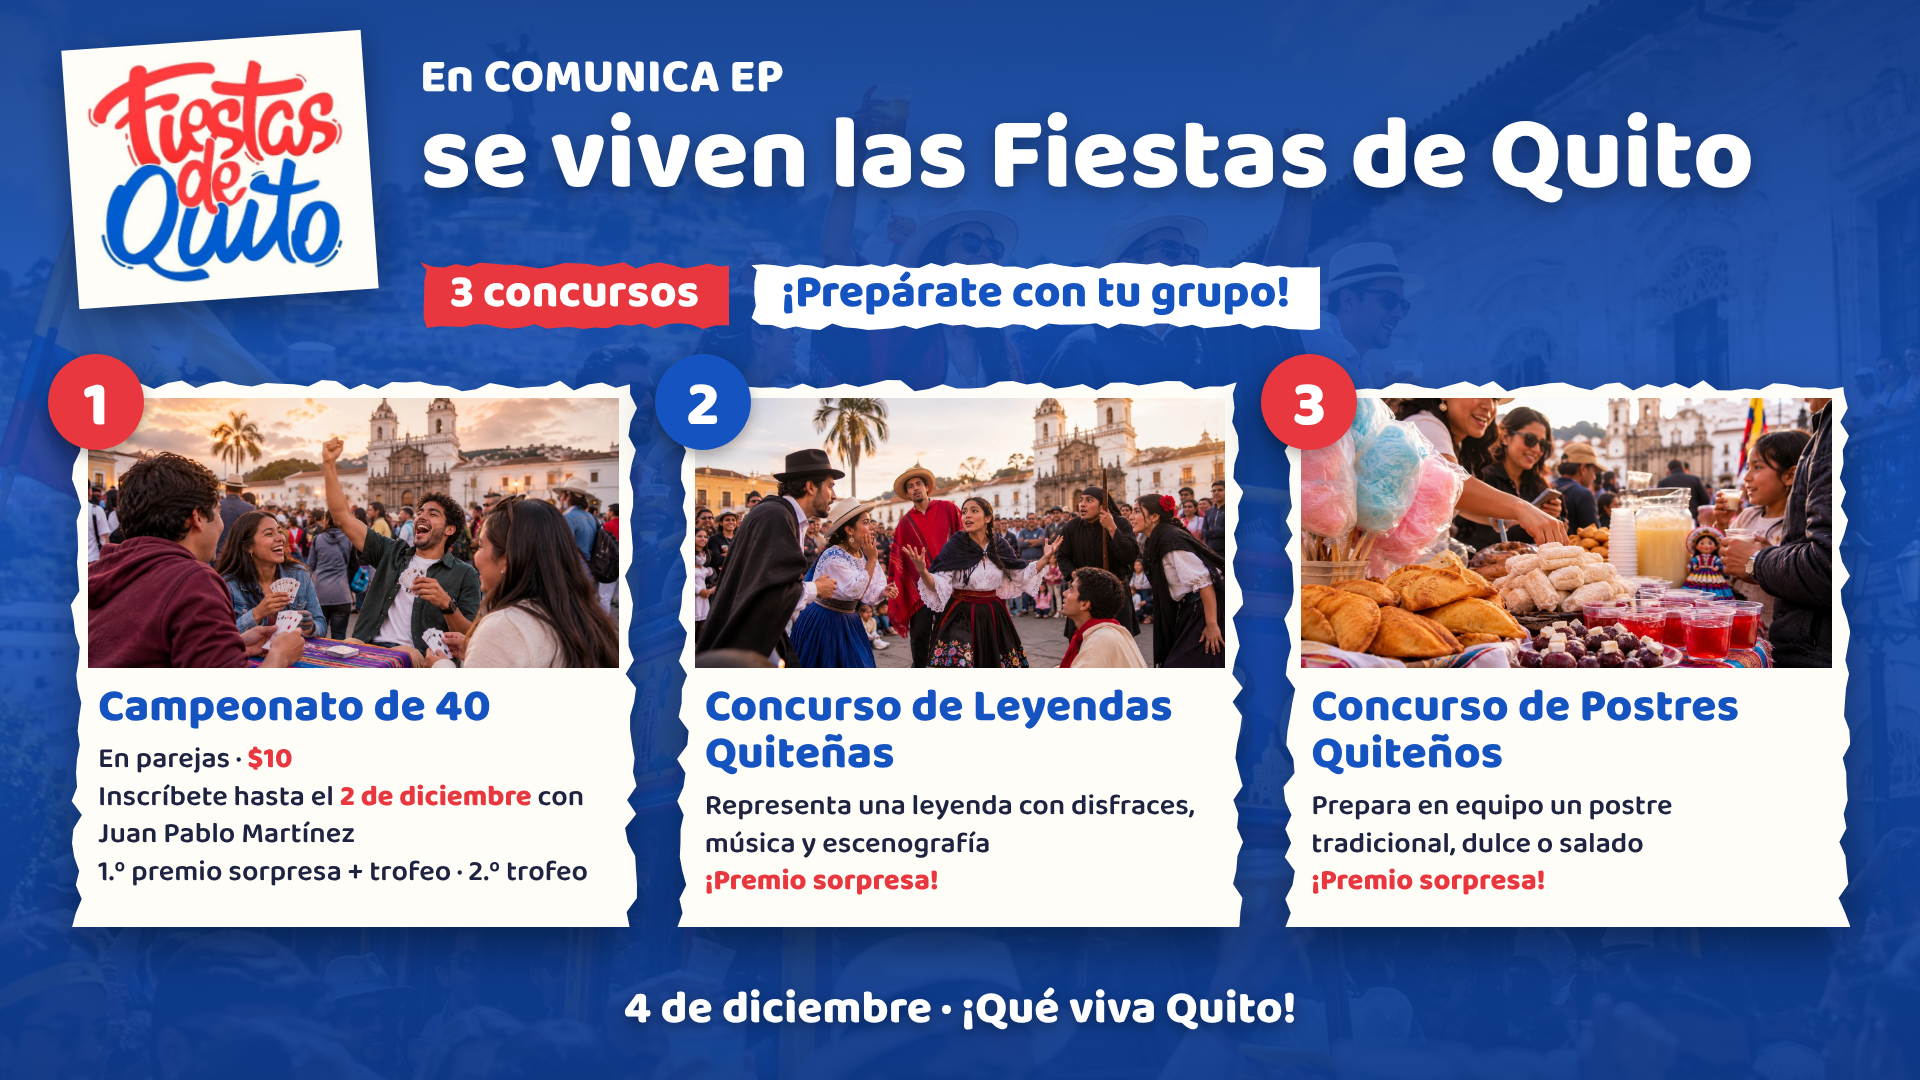
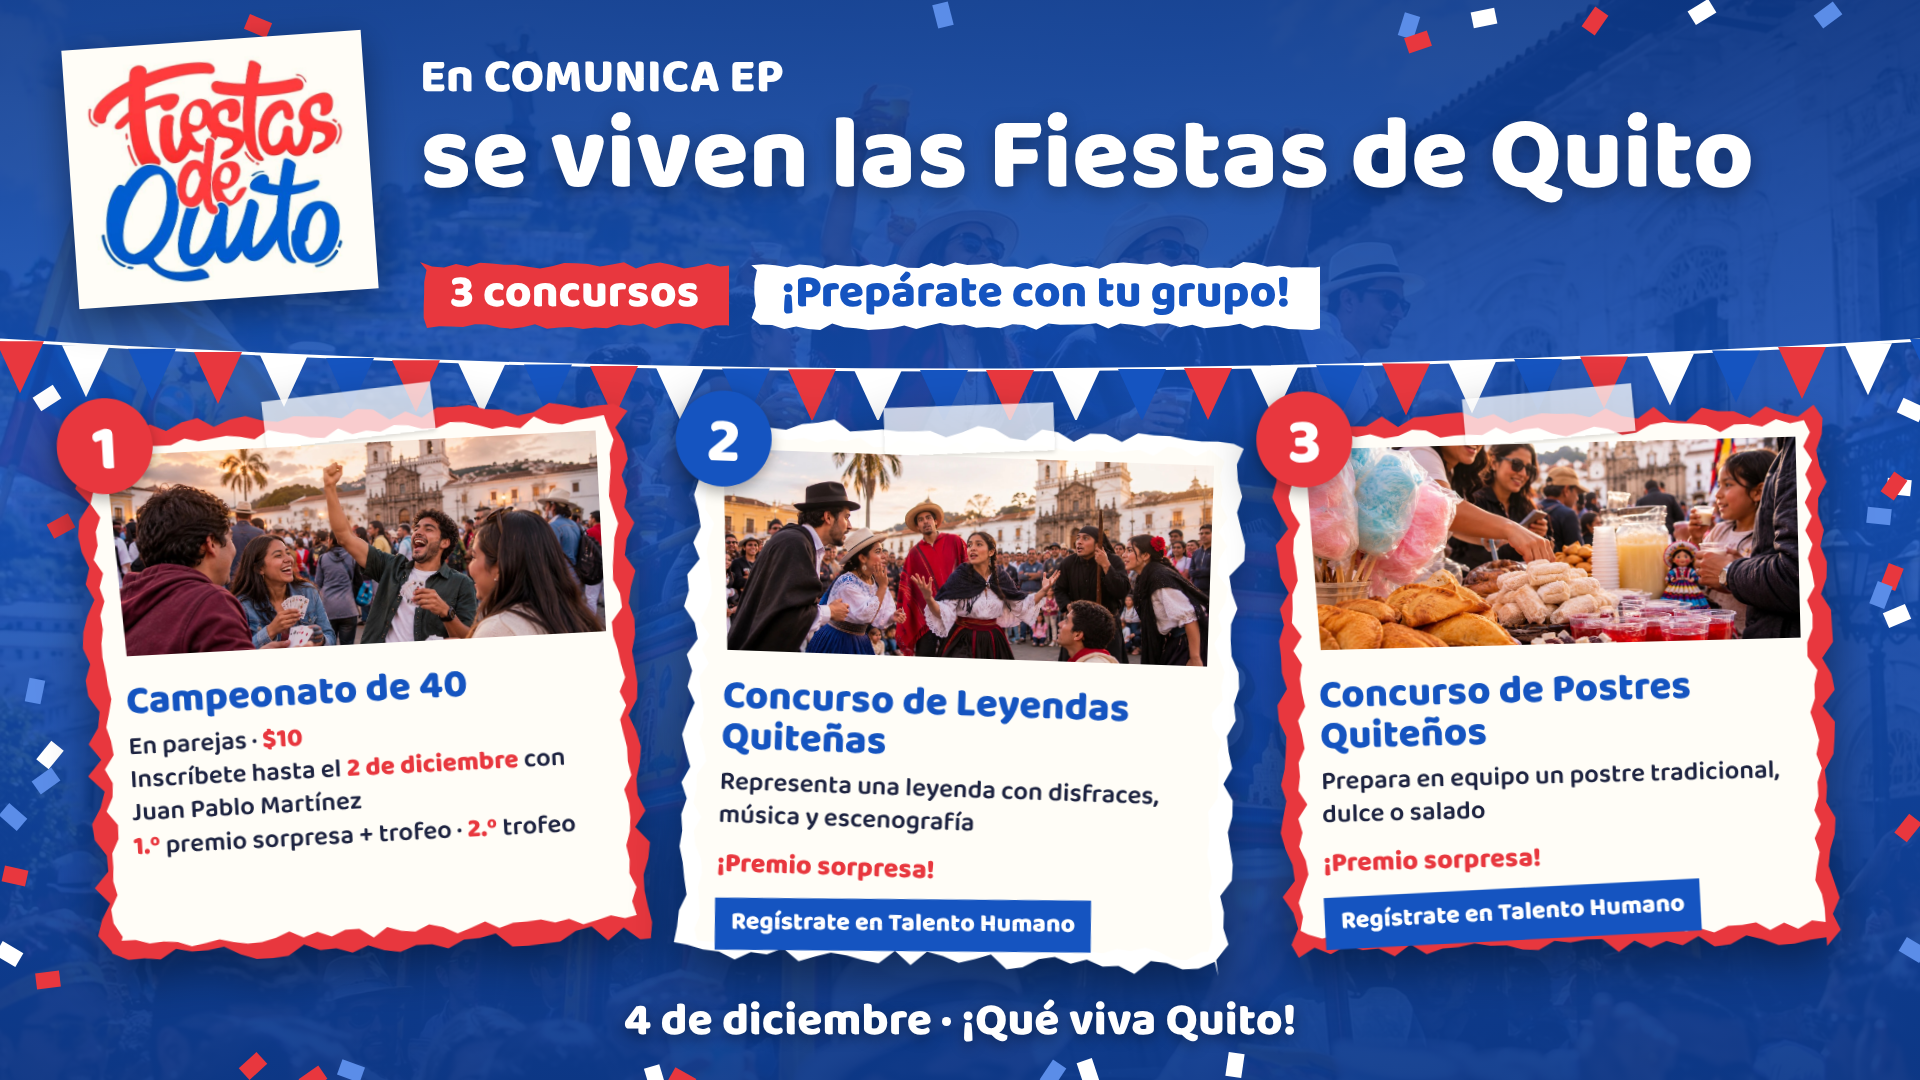
Fiestas de Quito art: festive torn cards, bunting, 'Regístrate en Talento Humano'
Claude-Session: https://claude.ai/code/session_01XV7Zhs1JRrkW5hokRDRSy2

diff --git a/videos/fiestas-quito/arte/resumen.html b/videos/fiestas-quito/arte/resumen.html
@@ -21,15 +21,29 @@
       .pill { padding: 8px 30px 14px; font-weight: 800; font-size: 46px; line-height: 1; }
       .pill.r { background: var(--red); }
       .pill.w { background: #fff; color: var(--blue); }
-      .cards { position: absolute; left: 70px; right: 70px; top: 380px; display: flex; gap: 40px; }
-      .card { position: relative; flex: 1; background: #fffdf7; color: var(--ink); padding: 18px 18px 26px; filter: drop-shadow(0 18px 24px rgba(0, 0, 0, 0.45)); }
-      .card img { display: block; width: 100%; height: 270px; object-fit: cover; }
-      .card .n { position: absolute; left: -22px; top: -26px; width: 96px; height: 96px; border-radius: 50%; background: var(--red); color: #fff; font-weight: 800; font-size: 64px; display: flex; align-items: center; justify-content: center; padding-top: 8px; box-shadow: 0 6px 14px rgba(0, 0, 0, 0.3); }
+      .cards { position: absolute; left: 100px; right: 100px; top: 425px; display: flex; gap: 70px; }
+      .card { position: relative; flex: 1; background: #fffdf7; color: var(--ink); padding: 18px 18px 22px; filter: drop-shadow(0 18px 24px rgba(0, 0, 0, 0.45)); }
+      .card:nth-child(1) { transform: rotate(-3deg); }
+      .card:nth-child(2) { transform: rotate(2deg) translateY(14px); }
+      .card:nth-child(3) { transform: rotate(-1.5deg); }
+      .card .frame { position: absolute; inset: -16px; z-index: -2; }
+      .card:nth-child(odd) .frame { background: var(--red); }
+      .card:nth-child(2) .frame { background: #fff; }
+      .card .tape { position: absolute; top: -34px; left: 50%; width: 170px; height: 48px; margin-left: -85px; background: rgba(255, 255, 255, 0.75); transform: rotate(-4deg); box-shadow: 0 2px 4px rgba(0, 0, 0, 0.15); }
+      .go { display: flex; flex-wrap: wrap; align-items: center; gap: 8px 14px; margin: 10px 8px 0; font-size: 27px; }
+      .go b { font-weight: 800; color: var(--red); }
+      .reg { display: inline-block; padding: 4px 16px 8px; background: var(--blue); color: #fff; font-weight: 800; font-size: 25px; transform: rotate(-1.5deg); }
+      .flags { position: absolute; left: 0; top: 330px; width: 1920px; height: 90px; z-index: 1; }
+      .cards, .head, .sub, .logo, .foot { z-index: 3; }
+      #confetti { position: absolute; inset: 0; z-index: 2; }
+      .cf { position: absolute; width: 16px; height: 24px; }
+      .card img { display: block; width: 100%; height: 215px; object-fit: cover; }
+      .card .n { position: absolute; z-index: 5; left: -30px; top: -40px; width: 96px; height: 96px; border-radius: 50%; background: var(--red); color: #fff; font-weight: 800; font-size: 64px; display: flex; align-items: center; justify-content: center; padding-top: 8px; box-shadow: 0 6px 14px rgba(0, 0, 0, 0.3); }
       .card:nth-child(2) .n { background: var(--blue); }
-      .card .t { font-weight: 800; font-size: 46px; line-height: 1.02; margin: 16px 10px 0; color: var(--blue); }
-      .card .d { font-weight: 600; font-size: 29px; line-height: 1.3; margin: 10px 10px 0; }
+      .card .t { font-weight: 800; font-size: 40px; line-height: 1.02; margin: 12px 8px 0; color: var(--blue); }
+      .card .d { font-weight: 600; font-size: 26px; line-height: 1.28; margin: 8px 8px 0; }
       .card .d b { font-weight: 800; color: var(--red); }
-      .foot { position: absolute; left: 0; right: 0; bottom: 34px; text-align: center; font-weight: 800; font-size: 46px; text-shadow: 0 4px 14px rgba(0, 0, 0, 0.4); }
+      .foot { position: absolute; left: 0; right: 0; bottom: 22px; text-align: center; font-weight: 800; font-size: 46px; text-shadow: 0 4px 14px rgba(0, 0, 0, 0.4); }
     </style>
   </head>
   <body>
@@ -46,24 +60,29 @@
     </div>
     <div class="cards">
       <div class="card torn-card">
+        <div class="frame"></div><div class="tape"></div>
         <div class="n">1</div>
         <img src="../assets/fotos/cuarenta.jpg" alt="" />
         <div class="t">Campeonato de 40</div>
-        <div class="d">En parejas · <b>$10</b><br />Inscríbete hasta el <b>2 de diciembre</b> con Juan Pablo Martínez<br />1.º premio sorpresa + trofeo · 2.º trofeo</div>
+        <div class="d">En parejas · <b>$10</b><br />Inscríbete hasta el <b>2 de diciembre</b> con Juan Pablo Martínez<br /><b>1.º</b> premio sorpresa + trofeo · <b>2.º</b> trofeo</div>
       </div>
       <div class="card torn-card">
+        <div class="frame"></div><div class="tape"></div>
         <div class="n">2</div>
         <img src="../assets/fotos/leyenda.jpg" alt="" />
         <div class="t">Concurso de Leyendas Quiteñas</div>
-        <div class="d">Representa una leyenda con disfraces, música y escenografía<br /><b>¡Premio sorpresa!</b></div>
+        <div class="d">Representa una leyenda con disfraces, música y escenografía</div><div class="go"><b>¡Premio sorpresa!</b><span class="reg">Regístrate en Talento Humano</span></div>
       </div>
       <div class="card torn-card">
+        <div class="frame"></div><div class="tape"></div>
         <div class="n">3</div>
         <img src="../assets/fotos/postres.jpg" alt="" />
         <div class="t">Concurso de Postres Quiteños</div>
-        <div class="d">Prepara en equipo un postre tradicional, dulce o salado<br /><b>¡Premio sorpresa!</b></div>
+        <div class="d">Prepara en equipo un postre tradicional, dulce o salado</div><div class="go"><b>¡Premio sorpresa!</b><span class="reg">Regístrate en Talento Humano</span></div>
       </div>
     </div>
+    <svg class="flags" id="flags" viewBox="0 0 1920 90"></svg>
+    <div id="confetti"></div>
     <div class="foot">4 de diciembre · ¡Qué viva Quito!</div>
     <script>
       // bordes de papel rasgado
@@ -78,6 +97,36 @@
         return `polygon(${p.map(([x, y]) => `${x.toFixed(1)}px ${y.toFixed(1)}px`).join(",")})`;
       };
       document.querySelectorAll(".torn").forEach((e) => (e.style.clipPath = torn(e.offsetWidth, e.offsetHeight, 7, 12)));
+      // marco de color rasgado
+      document.querySelectorAll(".card .frame").forEach((f) => (f.style.clipPath = torn(f.offsetWidth, f.offsetHeight, 16, 16)));
+      // foto con borde inferior en zigzag (tipo papel picado)
+      document.querySelectorAll(".card img").forEach((im) => {
+        const w = im.offsetWidth, h = im.offsetHeight, pts = ["0px 0px", `${w}px 0px`];
+        for (let x = w; x >= 0; x -= 20) pts.push(`${x}px ${h - ((x / 20) % 2 ? 14 : 0)}px`);
+        im.style.clipPath = `polygon(${pts.join(",")})`;
+      });
+      // banderines rojo/azul/blanco detrás de las tarjetas
+      const fl = document.getElementById("flags"), NS = "http://www.w3.org/2000/svg";
+      const rope = document.createElementNS(NS, "path"); rope.setAttribute("d", "M0 10 Q960 70 1920 10"); rope.setAttribute("stroke", "#fff"); rope.setAttribute("stroke-width", "3"); rope.setAttribute("fill", "none"); fl.appendChild(rope);
+      ["#e8373e", "#ffffff", "#1554c0"].forEach(() => {});
+      for (let i = 0; i < 30; i++) {
+        const x = 20 + i * 66, t = x / 1920, y = (1 - t) * (1 - t) * 10 + 2 * (1 - t) * t * 70 + t * t * 10;
+        const f = document.createElementNS(NS, "path");
+        f.setAttribute("d", `M${x - 24} ${y} L${x + 24} ${y} L${x} ${y + 52}z`);
+        f.setAttribute("fill", ["#e8373e", "#ffffff", "#1554c0"][i % 3]);
+        fl.appendChild(f);
+      }
+      // confeti suelto
+      const cfh = document.getElementById("confetti");
+      for (let i = 0; i < 34; i++) {
+        const c = document.createElement("div"); c.className = "cf";
+        // solo en los márgenes: no tapa textos
+        const side = i % 4;
+        const cx = side === 0 ? rnd() * 60 : side === 1 ? 1860 + rnd() * 50 : rnd() * 1900;
+        const cy = side < 2 ? 380 + rnd() * 600 : side === 2 ? rnd() * 30 : 1050 + rnd() * 25;
+        Object.assign(c.style, { left: cx + "px", top: cy + "px", background: ["#e8373e", "#ffffff", "#5b8de8"][i % 3], transform: `rotate(${rnd() * 360}deg)` });
+        cfh.appendChild(c);
+      }
       document.querySelectorAll(".torn-card").forEach((e) => {
         const bgp = document.createElement("div");
         Object.assign(bgp.style, { position: "absolute", inset: "0", background: "#fffdf7", zIndex: "-1", clipPath: torn(e.offsetWidth, e.offsetHeight, 12, 14) });
